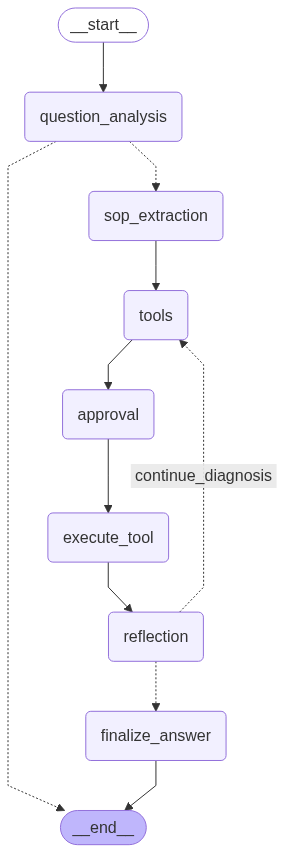
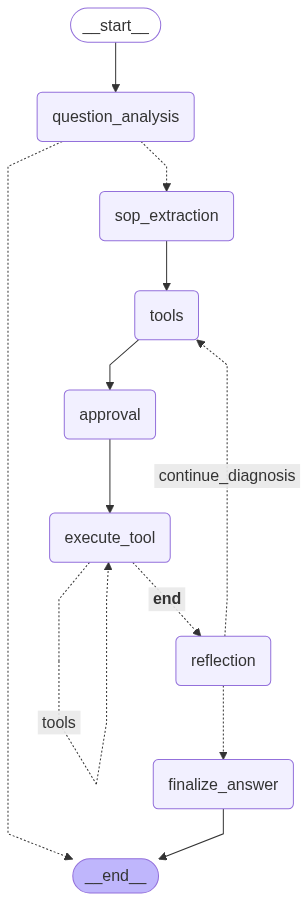
x

diff --git a/backend/src/agents/diagnostic_agent/graph.py b/backend/src/agents/diagnostic_agent/graph.py
@@ -208,7 +208,7 @@ def sop_extraction(state: DiagnosticOverallState, config: RunnableConfig) -> Dia
 
 # 节点：工具节点（包含SOP选择和工具规划）
 def tools(state: DiagnosticOverallState, config: RunnableConfig) -> DiagnosticOverallState:
-    """工具节点：如有SOP则选择SOP，否则自动生成排查规划。"""
+    """工具节点：生成工具调用计划。"""
     configurable = Configuration.from_runnable_config(config)
     llm = ChatDeepSeek(
         model=configurable.query_generator_model,
@@ -216,50 +216,16 @@ def tools(state: DiagnosticOverallState, config: RunnableConfig) -> DiagnosticOv
         max_retries=2,
         api_key=os.getenv("DEEPSEEK_API_KEY"),
     )
-    messages = state.get("messages", [])
-    # 检查是否有SOP可用（可根据业务实际调整）
-    sop_available = False
-    sop_list = []
-    try:
-        sop_response = sop_tool.list_sops({"category": "system"})
-        if sop_response and sop_response.get("sops"):
-            sop_available = True
-            sop_list = sop_response["sops"]
-    except Exception:
-        sop_available = False
-    if sop_available:
-        system_prompt = "你是专业的故障诊断专家，请根据用户问题和SOP列表选择最相关的SOP，并给出理由。"
-        user_question = messages[-1].content if messages else ""
-        prompt = system_prompt + "\nSOP列表：" + str(sop_list) + "\n用户问题：" + user_question
-        response = llm.invoke([SystemMessage(content=prompt)])
-        return {
-            "messages": [response],
-            "sop_state": "selected",
-            "current_step": "tools"
-        }
-    else:
-        system_prompt = "你是专业的故障诊断专家，请根据用户问题自动生成排查规划（无需SOP）。"
-        user_question = messages[-1].content if messages else ""
-        prompt = system_prompt + "\n用户问题：" + user_question
-        response = llm.invoke([SystemMessage(content=prompt)])
-        return {
-            "messages": [response],
-            "sop_state": "none",
-            "current_step": "tools"
-        }
-
-# 节点：执行诊断工具
-def execute_diagnostic_tools(state: DiagnosticOverallState, config: RunnableConfig) -> DiagnosticOverallState:
-    """LangGraph 节点，执行诊断工具。"""
-    configurable = Configuration.from_runnable_config(config)
     
-    # 初始化 DeepSeek Chat
-    llm = ChatDeepSeek(
-        model=configurable.query_generator_model,
-        temperature=1.0,
-        max_retries=2,
-        api_key=os.getenv("DEEPSEEK_API_KEY"),
-    )
+    # 绑定工具到LLM
+    ssh_tools = [
+        ssh_tool.get_system_info,
+        ssh_tool.analyze_processes,
+        ssh_tool.check_service_status,
+        ssh_tool.analyze_system_logs,
+        ssh_tool.execute_system_command
+    ]
+    llm_with_tools = llm.bind_tools(ssh_tools)
     
     # 构建系统提示
     system_prompt = """你是专业的故障诊断专家，需要执行诊断工具来收集系统信息。
@@ -276,31 +242,22 @@ def execute_diagnostic_tools(state: DiagnosticOverallState, config: RunnableConf
 - analyze_system_logs: 分析系统日志
 - execute_system_command: 执行系统命令
 
-请根据SOP步骤执行相应的诊断工具。"""
+请根据当前情况选择合适的诊断工具执行。"""
 
     # 构建消息
     messages = state.get("messages", [])
     if not any(isinstance(msg, SystemMessage) for msg in messages):
         messages = [SystemMessage(content=system_prompt)] + messages
     
-    # 绑定工具到LLM
-    ssh_tools = [
-        ssh_tool.get_system_info,
-        ssh_tool.analyze_processes,
-        ssh_tool.check_service_status,
-        ssh_tool.analyze_system_logs,
-        ssh_tool.execute_system_command
-    ]
-    llm_with_tools = llm.bind_tools(ssh_tools)
-    
-    # 调用LLM
+    # 调用LLM生成工具调用
     response = llm_with_tools.invoke(messages)
     
     return {
         "messages": [response],
-        "current_step": "tool_execution",
-        "diagnosis_step_count": [1]  # 每次工具执行增加1步
+        "current_step": "tools"
     }
+
+
 
 # 节点：工具执行审批
 def approval_node(state: DiagnosticOverallState, config: RunnableConfig) -> DiagnosticOverallState:
@@ -418,7 +375,18 @@ builder.add_node("question_analysis", question_analysis)
 builder.add_node("sop_extraction", sop_extraction)
 builder.add_node("tools", tools)
 builder.add_node("approval", approval_node)
-builder.add_node("execute_tool", execute_diagnostic_tools)
+
+# 使用 ToolNode 来处理工具调用
+ssh_tools = [
+    ssh_tool.get_system_info,
+    ssh_tool.analyze_processes,
+    ssh_tool.check_service_status,
+    ssh_tool.analyze_system_logs,
+    ssh_tool.execute_system_command
+]
+tool_node = ToolNode(ssh_tools)
+builder.add_node("execute_tool", tool_node)
+
 builder.add_node("reflection", reflect_diagnosis)
 builder.add_node("finalize_answer", finalize_diagnosis)
 
@@ -430,7 +398,10 @@ builder.add_conditional_edges("question_analysis", lambda state, config: (
 builder.add_edge("sop_extraction", "tools")
 builder.add_edge("tools", "approval")
 builder.add_edge("approval", "execute_tool")
-builder.add_edge("execute_tool", "reflection")
+builder.add_conditional_edges("execute_tool", tools_condition, {
+    "tools": "execute_tool",
+    "__end__": "reflection"
+})
 builder.add_conditional_edges("reflection", evaluate_diagnosis_progress, {
     "continue_diagnosis": "tools",
     "finalize_answer": "finalize_answer"
